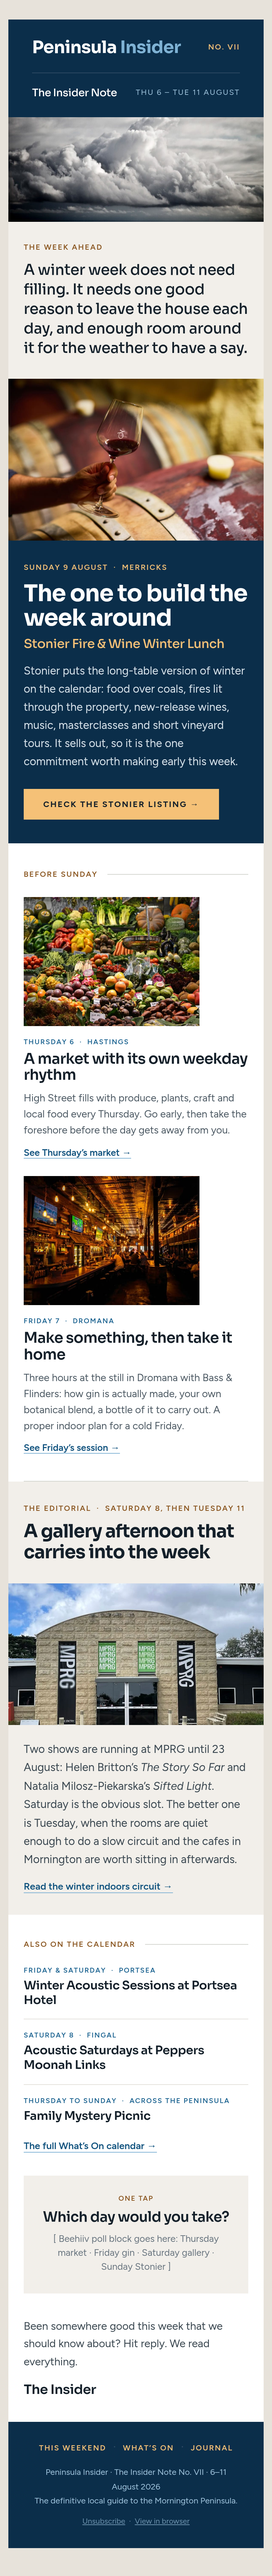
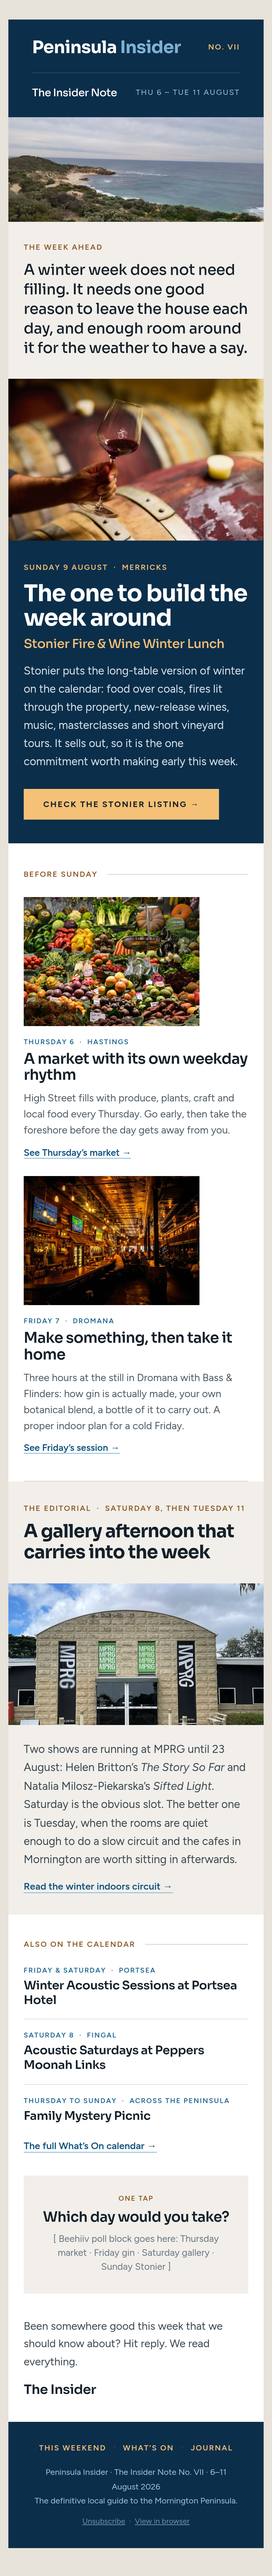
email: use winter Portsea coast as Insider Note cover band; drop unused storm export

Changed region(s): [[0.0308, 0.0311, 0.9846, 0.0934]]

diff --git a/next/public/preview/email/insider-note-2026-08-05.html b/next/public/preview/email/insider-note-2026-08-05.html
@@ -88,7 +88,7 @@
 
   <!-- ══ COVER BAND ════════════════════════════════════════════ -->
   <tr><td style="font-size:0;line-height:0;">
-    <img src="https://peninsulainsider.com.au/images/email/note-band-storm.jpg" width="600" height="210" alt="A winter storm cloud building out over the water, seen from Arthurs Seat" class="band" style="display:block;width:100%;max-width:600px;height:auto;border:0;" />
+    <img src="https://peninsulainsider.com.au/images/email/note-band-winterbeach.jpg" width="600" height="210" alt="A grey winter afternoon on the coast near Portsea, empty sand below the scrub and open water beyond" class="band" style="display:block;width:100%;max-width:600px;height:auto;border:0;" />
   </td></tr>
 
   <!-- ══ STANDFIRST ════════════════════════════════════════════ -->

diff --git a/ops/email/insider-note-2026-08-05.html b/ops/email/insider-note-2026-08-05.html
@@ -87,7 +87,7 @@
 
   <!-- ══ COVER BAND ════════════════════════════════════════════ -->
   <tr><td style="font-size:0;line-height:0;">
-    <img src="https://peninsulainsider.com.au/images/email/note-band-storm.jpg" width="600" height="210" alt="A winter storm cloud building out over the water, seen from Arthurs Seat" class="band" style="display:block;width:100%;max-width:600px;height:auto;border:0;" />
+    <img src="https://peninsulainsider.com.au/images/email/note-band-winterbeach.jpg" width="600" height="210" alt="A grey winter afternoon on the coast near Portsea, empty sand below the scrub and open water beyond" class="band" style="display:block;width:100%;max-width:600px;height:auto;border:0;" />
   </td></tr>
 
   <!-- ══ STANDFIRST ════════════════════════════════════════════ -->

diff --git a/ops/email/insider-note-2026-08-05-qa.md b/ops/email/insider-note-2026-08-05-qa.md
@@ -28,15 +28,15 @@ Five images, all from the site's own licensed library (`next/public/images/sourc
 
 | Slot | Source | Output |
 | --- | --- | --- |
-| Cover band | `places-hub-hero-01.webp` (2400×1131 source, centre crop) | `note-band-storm.jpg` 1200×420, 49 kB |
+| Cover band | `explore-sorrento-ocean-baths-01.webp` (1400×788 source, 50%/55% crop) | `note-band-winterbeach.jpg` 1200×420, 66 kB |
 | Lead — Stonier | `venue-avani-wines-01.jpg` | `note-lead-stonier.jpg` 1200×760, 57 kB |
 | Thursday — Hastings | `category-market-02.webp` (that event's own hero) | `note-thu-hastings.jpg` 600×440, 68 kB |
 | Friday — Bass & Flinders | `category-brewery-01.webp` (that event's own hero) | `note-fri-gin.jpg` 600×440, 53 kB |
 | Editorial — MPRG | `explore-mprg-01.webp` | `note-editorial-mprg.jpg` 1080×600, 102 kB |
 
-All exported at 2× display width. Hosted at `peninsulainsider.com.au/images/email/` — committed and pushed in `796772bf6a`, cover band replaced in `5442863ff4`, so the draft renders in a real inbox. Unlinked directory; it publishes no page.
+All exported at 2× display width. Hosted at `peninsulainsider.com.au/images/email/` — committed and pushed in `796772bf6a`, cover band replaced in `5442863ff4` and again in the commit that carries this line. Unlinked directory; it publishes no page.
 
-The cover band is Wikimedia Commons, CC-BY-SA-4.0, titled *Victoria Mornington Peninsula Arthurs Seat*, uncredited contributor. Chosen over Cape Schanck at dawn and a winter Portsea beach because the near-monochrome cloud mass carries the standfirst line about leaving room for the weather, and it does not compete with the sand CTA. Exported baseline JPEG, not progressive — the earlier four images are progressive; the encoder available here writes baseline only.
+The cover band is Wikimedia Commons, CC-BY-SA-4.0, *Portsea beaches* by Simone Kealy, filed in the library under the wrong name (`explore-sorrento-ocean-baths-01`) — the licence record says Portsea in winter and the photograph agrees, so the alt text credits Portsea, not Sorrento. Chosen by James over Cape Schanck at dawn and an Arthurs Seat storm cloud. Its muted greys and greens leave the sand CTA as the only warm element in the email. Exported baseline JPEG, not progressive — the earlier four images are progressive; the encoder available here writes baseline only.
 
 Note on the library, which needs a real audit pass:
 
